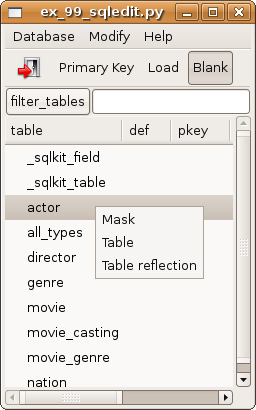
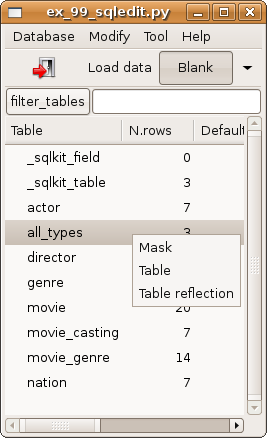
doc: update sqledit doc

Changed region(s): [[0.0, 0.0, 1.0, 0.9951], [0.9688, 0.9951, 1.0, 1.0], [0.0, 0.9951, 0.0312, 1.0]]

diff --git a/doc/sqlkit/sqledit.rst b/doc/sqlkit/sqledit.rst
@@ -20,6 +20,14 @@ If called without argument it will present a connection dialog:
 
 .. image:: ../img/sqledit_setup.png
 
+If sqledit can find a demo in your systems, it will give you the chance to
+start it. If you want to type the URL of your db you can directly attempt a
+connection or disable it via a checkbox on the right of the entry.
+
+The autoconnect mode is really nice but you may experiment hangs till a
+connection timeout if you write a wong host name.
+
+
 .sqleditdb
 ==========
 
